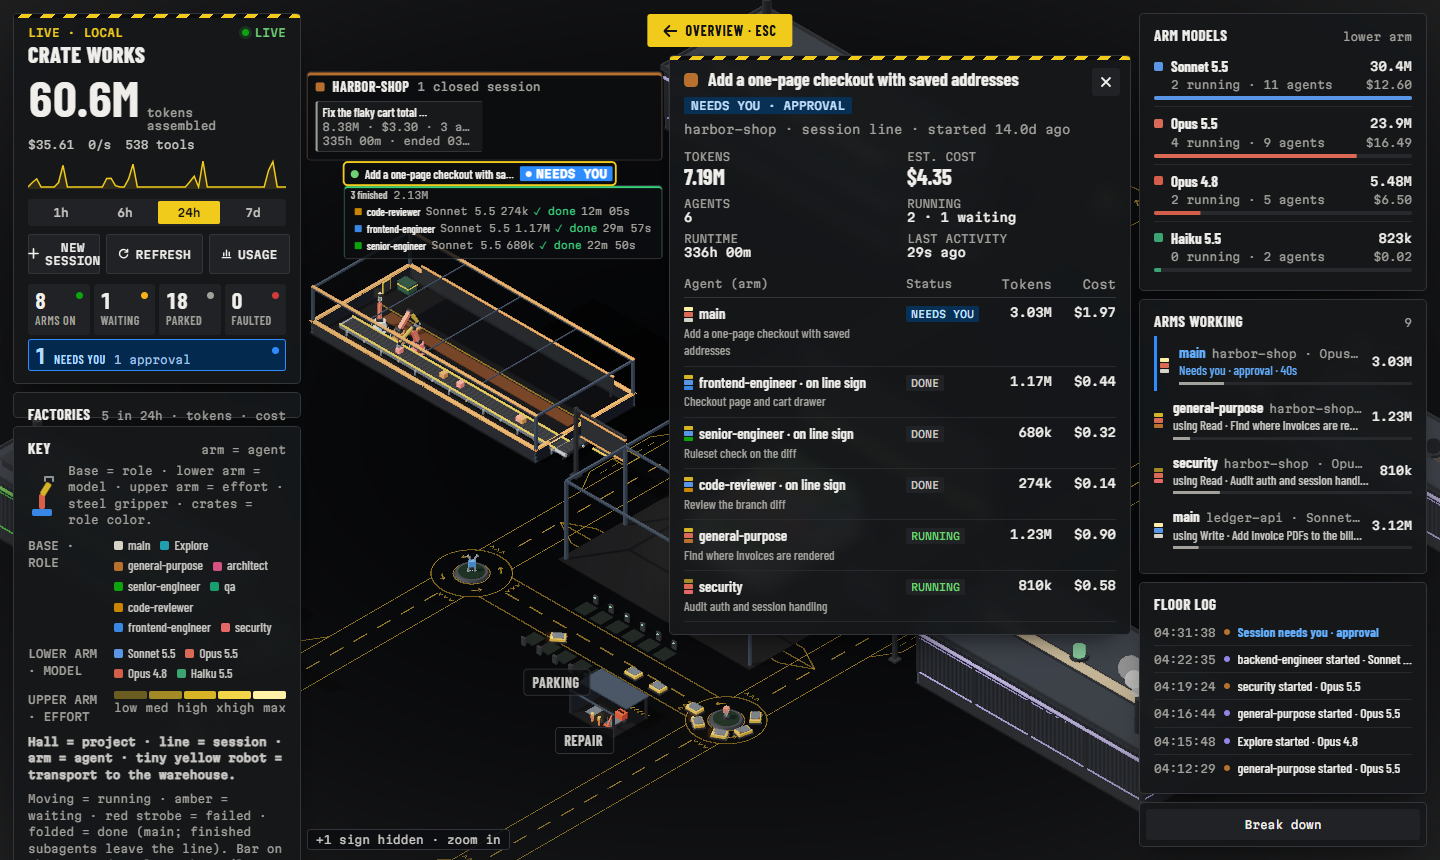
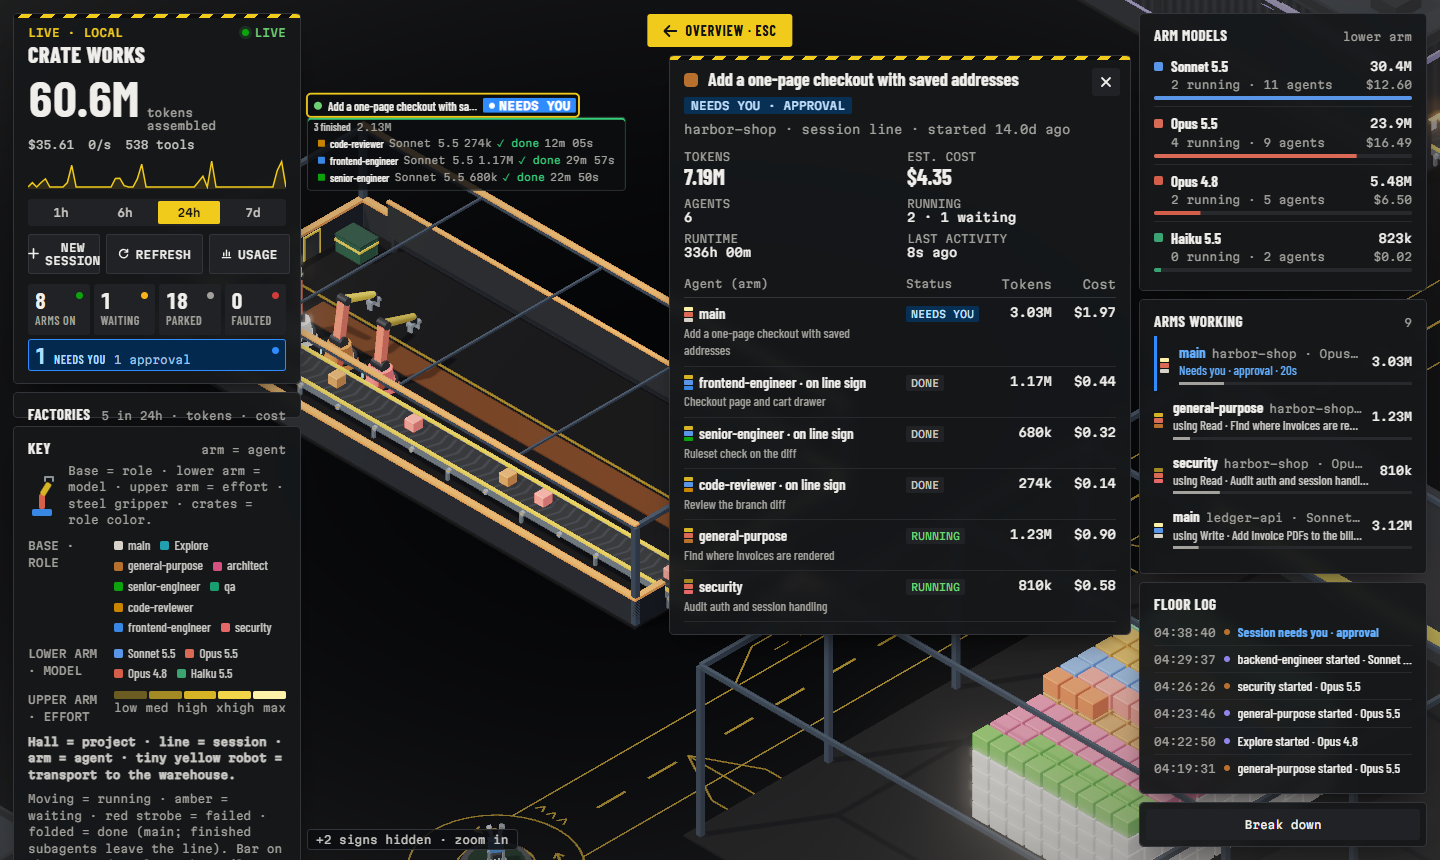
feat(floor): hall names on a fixed roof sign on poles; easier right-click on transport robots

diff --git a/index.html b/index.html
@@ -238,6 +238,7 @@ h2 small{font:400 11px var(--font-mono);color:var(--color-ink-3);text-transform:
 .labels>.lnear{opacity:.78}.labels>.lnear:hover,.labels>.lnear.on{opacity:1}
 .labels>.lhide{visibility:hidden!important;pointer-events:none!important}.labels>.lhide *{pointer-events:none!important}
 #lmore{position:fixed;z-index:4;font:400 11px var(--font-mono);color:var(--color-ink-2);background:oklch(16% 0.006 260 / .85);box-shadow:0 0 0 1px var(--color-edge);padding:3px 8px;border-radius:3px;pointer-events:none}
+.sign.fac:not(.ask){display:none}.sign.fac>.sw,.sign.fac>span,.sign.fac>small.cl{display:none} /* the name is on the roof sign; this tag only says "needs you" */
 .sign.fac small.cl{font:500 11px var(--font-mono);color:var(--color-ink-3);text-transform:none;letter-spacing:0}
 .sign.cb{flex-direction:column;align-items:stretch;gap:6px;padding:6px 8px 8px;cursor:default;white-space:normal;box-shadow:0 0 0 1px var(--color-edge),inset 0 3px 0 var(--c,transparent);max-width:370px;opacity:0;pointer-events:none;transition:opacity .25s}
 .sign.cb.show{opacity:1;pointer-events:auto}
@@ -786,7 +787,8 @@ function startApp(buildScene, o) {
   function doHover() {
     if (!ptrXY) return; const p = pickAt();
     const key = p ? p.kind + p.id : null;
-    if (key !== (hover && hover.kind + hover.id)) { hover = p; S.hover?.(p); canvas.style.cursor = p ? 'pointer' : ''; }
+    if (key !== (hover && hover.kind + hover.id)) { hover = p; S.hover?.(p); }
+    canvas.style.cursor = p ? 'pointer' : S?.robotAt?.(ptrXY[0], ptrXY[1]) ? 'context-menu' : ''; // over a robot: hint that it has a right-click menu
     hud.tip(p, ptrXY[0], ptrXY[1]);
   }
 
@@ -935,8 +937,20 @@ function buildScene(ctx) {
     f.skyM = new THREE.MeshStandardMaterial({ color: '#1a2230', emissive: '#ffd08a', emissiveIntensity: .1, roughness: .2, metalness: .3, transparent: true });
     f.beaconM = new THREE.MeshBasicMaterial({ color: '#222222', toneMapped: false, transparent: true });
     f.smoke = [0, 1, 2].map(i => { const m = new THREE.Mesh(smokeG, new THREE.MeshBasicMaterial({ color: '#f4f2ee', transparent: true, opacity: 0, depthWrite: false })); m.userData.ph = i / 3; m.visible = false; return m; });
+    // roof name sign: the name painted on a canvas texture (a real panel in the scene, so it keeps its place and angle as the camera moves)
+    { const SPX = 120, cv = document.createElement('canvas'), g = cv.getContext('2d'), FONT = `800 ${SPX * .7}px "Barlow Condensed", "Arial Narrow", sans-serif`, txt = p.name.toUpperCase();
+      g.font = FONT; const wPx = Math.min(SPX * 6, Math.max(SPX * 2.6, Math.ceil(g.measureText(txt).width + SPX * .9)));
+      cv.width = wPx; cv.height = SPX; f.signW = wPx / SPX; // panel size in world units (1 unit high)
+      const draw = () => { g.fillStyle = '#16181d'; g.fillRect(0, 0, cv.width, cv.height);
+        g.fillStyle = p.color; g.fillRect(0, cv.height - SPX * .1, cv.width, SPX * .1); g.fillRect(0, 0, cv.width, SPX * .04);
+        g.font = FONT; g.fillStyle = '#f2f0ea'; g.textAlign = 'center'; g.textBaseline = 'middle';
+        const tw = g.measureText(txt).width, room = cv.width - SPX * .6, sx = tw > room ? room / tw : 1;
+        g.save(); g.translate(cv.width / 2, cv.height * .47); g.scale(sx, 1); g.fillText(txt, 0, 0); g.restore(); if (f.nameTex) f.nameTex.needsUpdate = true; };
+      draw(); f.nameTex = new THREE.CanvasTexture(cv); f.nameTex.colorSpace = THREE.SRGBColorSpace; f.nameTex.anisotropy = 4;
+      if (document.fonts) document.fonts.ready.then(draw); // redraw once the web font is in
+      f.signM = new THREE.MeshBasicMaterial({ map: f.nameTex, transparent: true, toneMapped: false }); }
     f.op = 0; f.run = 0; f.wait = 0; f.need = 0;
-    f.hit = new THREE.Mesh(new THREE.BoxGeometry(1, 1, 1), invisM); f.grp.add(f.hit); ctx.addPickable(f.hit, { kind: 'project', id: p.id });
+    f.hit =new THREE.Mesh(new THREE.BoxGeometry(1, 1, 1), invisM); f.grp.add(f.hit); ctx.addPickable(f.hit, { kind: 'project', id: p.id });
     const ne = document.createElement('div'); ne.className = 'sign fac'; ne.style.setProperty('--c', p.color); ne.innerHTML = `<i class="sw" style="--c:${p.color}"></i><span></span><small class="cl"></small><b class="need"></b>`;
     ne.addEventListener('click', () => ctx.focus('project', p.id));
     f.nameT = ne.querySelector('span'); f.needT = ne.querySelector('.need'); f.nameEl = ne; f.nameT.textContent = p.name; f.nameLab = new ctx.CSS2DObject(ne); f.nameLab.center.set(.5, 1); f.grp.add(f.nameLab);
@@ -1031,17 +1045,17 @@ function buildScene(ctx) {
     f.rolDirty = true;
     add(dk, f.ctM, false, true); add(stl, dark); add(rails, rail, false, false); add(pads, f.padM, false, true); add(paint, f.accentM, false, false);
     f.hit.geometry.dispose(); f.hit.geometry = new THREE.BoxGeometry(FW, 1, D).translate(0, .5, 0);
-    // name billboard: a cantilever from the hall side of the corridor road, the panel hangs over the road at the hall's front corner
-    // (one post, outside the dock lane; nothing stands in the lanes or the warehouse passages; kept off every roundabout)
-    { const RX = XP + 1.7, x0 = RX - 2.45, x1 = RX + 1.3, PH = 4.4, xm = (x0 + .45 + x1) / 2, PW = x1 - x0 - .45, py = PH - .85, bb = [], fr = [],
-        clear = t => [-ZT, -ZR, ZR, ZT].every(z => Math.abs(f.oz + t - z) > 3.4); // world z along the corridor
-      let t = hz - .6; while (t > 2.5 && !clear(t)) t -= .25; const bz = f.d * t;
-      bb.push(new THREE.BoxGeometry(.2, PH + .1, .2).translate(x0, (PH + .1) / 2, bz), new THREE.BoxGeometry(.5, .12, .5).translate(x0, .06, bz)); // post + foot
-      bb.push(new THREE.BoxGeometry(x1 - x0 + .1, .14, .14).translate((x0 + x1) / 2, PH, bz)); // arm over the road
-      bb.push(new THREE.BoxGeometry(PW, 1.3, .1).translate(xm, py, bz)); // panel
-      for (const y of [py - .7, py + .7]) fr.push(new THREE.BoxGeometry(PW + .1, .1, .14).translate(xm, y, bz));
-      add(bb, dark); add(fr, f.accentM, false, false);
-      f.nameLab.center.set(.5, .5); f.nameLab.position.set(xm, py, bz); }
+    // roof name sign: a fixed panel along the front edge of the roof, on poles with back struts; it lifts and fades with the roof
+    { const SH = 2, W = f.signW * SH, y0 = .8, yc = y0 + SH / 2, sg = new THREE.Group(), st = [];
+      sg.position.set(0, 0, f.d * (hz - .55)); sg.rotation.y = f.d > 0 ? 0 : Math.PI; roofG.add(sg); // the panel faces the front (world +z) for every hall
+      const px = W > 6 ? [-W / 2 + .5, 0, W / 2 - .5] : [-W / 2 + .4, W / 2 - .4];
+      for (const x of px) { st.push(new THREE.BoxGeometry(.12, y0 + SH - .1, .12).translate(x, .16 + (y0 + SH - .26) / 2, -.12)); // pole
+        st.push(new THREE.BoxGeometry(.09, .09, 2).rotateX(-.78).translate(x, .95, -.8)); } // back strut down to the roof
+      st.push(new THREE.BoxGeometry(W + .14, SH + .14, .08).translate(0, yc, -.06)); // backing board
+      sadd(sg, st, f.roofDM, true, false);
+      const face = new THREE.Mesh(new THREE.PlaneGeometry(W, SH).translate(0, yc, -.015), f.signM); sg.add(face);
+      if (f.signHit) ctx.removePickable(f.signHit); f.signHit = face; ctx.addPickable(face, { kind: 'project', id: f.id });
+      f.nameLab.position.set(0, CH + 1.4, 0); } // the CSS tag only shows "needs you", above the siren
     f.subAt = [new THREE.Vector3(-HX + 3.2, 1.0, f.d * (hz + .2)), new THREE.Vector3(HX - 3.2, CH + .45, -f.d * hz)]; // overview: front corner; open hall: above the far wall toward the exit
     f.subLab.position.copy(f.subAt[f.det ? 1 : 0]);
     f.cbLab.position.set(0, 1.55, bz);
@@ -1051,9 +1065,9 @@ function buildScene(ctx) {
     for (const l of [...f.lines]) killLine(l);
     for (const c of cr) if (c.st === 'cross' && c.f === f) c.dead = true;
     if (f.fix) f.fix.traverse(o => o.geometry && o.geometry.dispose());
-    f.hit.geometry.dispose(); ctx.removePickable(f.hit); scene.remove(f.grp);
+    f.hit.geometry.dispose(); ctx.removePickable(f.hit); if (f.signHit) ctx.removePickable(f.signHit); scene.remove(f.grp);
     for (const lab of [f.nameLab, f.subLab, f.cbLab]) lab.element.remove();
-    [f.bt, f.beltM, f.ct, f.ctM, f.accentM, f.padM, f.rol, f.roofM, f.roofDM, f.skyM, f.beaconM, ...f.smoke.map(m => m.material)].forEach(d => d.dispose());
+    [f.bt, f.beltM, f.ct, f.ctM, f.accentM, f.padM, f.rol, f.roofM, f.roofDM, f.skyM, f.beaconM, f.signM, f.nameTex, ...f.smoke.map(m => m.material)].forEach(d => d.dispose());
     slotUsed[f.k] = null; if (f.dock.f === f) f.dock.f = null; facs.delete(f.id);
   }
   // ── lines: one conveyor per session
@@ -2201,7 +2215,7 @@ function buildScene(ctx) {
     if (f.op !== want) { f.op = reduced ? want : damp(f.op, want, 3.2, dt); if (Math.abs(f.op - want) < .004) f.op = want; }
     const e = easeIO(f.op), shut = f.op < .999, fade = 1 - Math.min(1, e * 1.4);
     if (f.shell) { f.shell.visible = shut; f.shell.scale.y = Math.max(.001, 1 - e); }
-    if (f.roofG) { f.roofG.visible = shut; f.roofG.position.y = CH + e * 5; for (const m of [f.roofM, f.roofDM, f.skyM, f.beaconM]) m.opacity = fade; }
+    if (f.roofG) { f.roofG.visible = shut; f.roofG.position.y = CH + e * 5; for (const m of [f.roofM, f.roofDM, f.skyM, f.beaconM, f.signM]) m.opacity = fade; }
     f.hit.scale.y = f.op > .5 ? 1 : CH + .3;
     // outside activity: skylights glow while agents run; roof beacon blue = needs you (flashing), amber = waiting, green = running
     f.skyM.emissiveIntensity = f.run ? .75 + Math.min(.35, f.run * .07) + (R ? Math.sin(t * 2 + f.k) * .08 : 0) : .08;
@@ -2409,7 +2423,7 @@ function buildScene(ctx) {
       b.addEventListener('click', () => { if (b.getAttribute('aria-disabled') === 'true') return; BRK.force(); upd(); });
       upd(); setInterval(upd, 250); } }
   function robotAt(cx, cy) { // the robot under a screen point (instanced, so by projected distance), or null
-    const v = new THREE.Vector3(), W = innerWidth, H = innerHeight; let best = null, bd = Math.max(14, 22 * ctx.camera.zoom) ** 2;
+    const v = new THREE.Vector3(), W = innerWidth, H = innerHeight; let best = null, bd = Math.max(22, 32 * ctx.camera.zoom) ** 2; // generous: the robots are small and keep moving
     for (const r of robots) { if (r.dying || r.born < 1) continue; v.set(r.x, .2, r.z).project(ctx.camera);
       const d = ((v.x + 1) / 2 * W - cx) ** 2 + ((1 - v.y) / 2 * H - cy) ** 2; if (d < bd) { bd = d; best = r; } }
     return best && { id: best.id, canDrive: best.st === 'go' && !best.broken && !best.towed && !best.shoulder, moving: best.v > .3 };

diff --git a/documentation/factory-view.md b/documentation/factory-view.md
@@ -6,7 +6,7 @@ The page draws your Claude Code activity as an isometric factory. Everything on 
 
 | On screen | What it stands for |
 |-----------|-------------------|
-| Factory hall | A project: the last folder name of the session's working folder. Up to 12 halls stand in a grid around the central warehouse; the rest are in the Factories list. Each hall has its name on a billboard over the road at its front corner, a siren in the middle of the roof, and a subtotal sign. |
+| Factory hall | A project: the last folder name of the session's working folder. Up to 12 halls stand in a grid around the central warehouse; the rest are in the Factories list. Each hall has its name on a sign on poles along the front of the roof, a siren in the middle of the roof, and a subtotal sign. |
 | Conveyor line | An open session. Live sessions come first, at most 6 per hall ("+N more sessions"). The line sign shows title, tokens and status. |
 | Robot arm | A running or waiting agent on that session, at most 10 per line ("+N arms"). |
 | Arm base, lower arm, upper arm | Role, model and effort (dim to bright yellow). All arms are the same size. |

diff --git a/CHANGELOG.md b/CHANGELOG.md
@@ -17,7 +17,8 @@ All notable changes to this project are listed here.
 
 ### Changed
 
--   Hall names hang on a billboard over the road at the front of each hall, the siren sits in the middle of the roof, and the chimney smoke is lighter so it shows on the dark floor.
+-   Hall names are on a fixed sign on poles along the front of the roof (no closed-session count; a floating tag only shows "needs you"), the siren sits in the middle of the roof, and the chimney smoke is lighter so it shows on the dark floor.
+-   Transport robots are easier to right-click: a bigger hit area, and the cursor changes over a robot.
 
 ### Fixed
 
